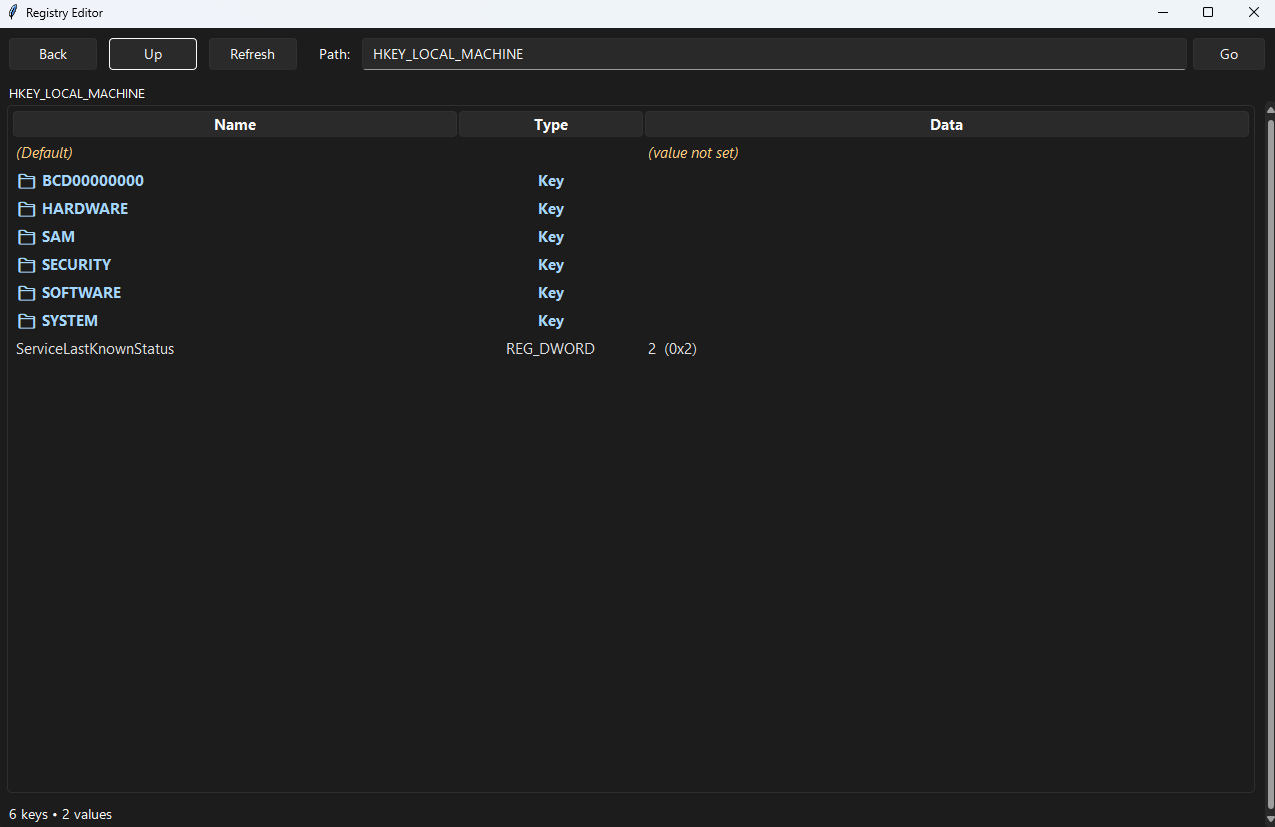
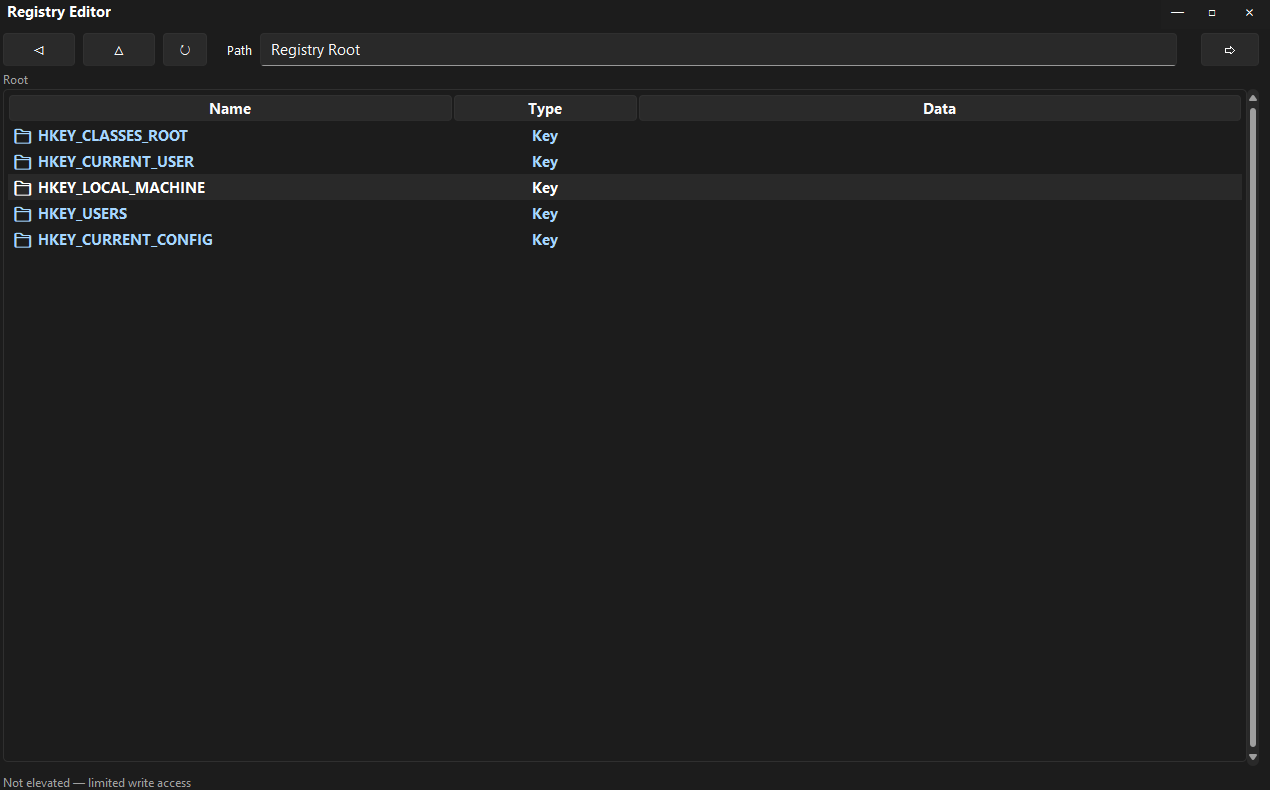
Add the Registry Editor

diff --git a/regedit/index.html b/regedit/index.html
@@ -1,9 +1,34 @@
 <!DOCTYPE html>
 <html lang="en">
-<title></title>
-<head>
-    <meta http-equiv="refresh" content="0; url=https://random-internet-dude709.github.io/sorry">
-</head>
-<body>
-</body>
+    <title>Download Registry Editor</title>
+    <head>
+        <link rel="stylesheet" href="assets/styles.css">
+        <link rel="icon" href="assets/favicon.ico">
+    </head>
+    <body>
+        <div class="black-box">
+            <h1>Download</h1>
+        </div>
+        <div class="nav-box">
+            <a href="files/setup.exe">
+                <button class="modernButton" type="button">Download setup file</button>
+            </a>
+        </div>
+        <div class="nav-box">
+            <p>This is what it looks like</p>
+            <img src="assets/screenshot1.png" alt="Five Windows Registry hives" width="600">
+            <p>Here's what browsing into the HKEY_LOCAL_MACHINE hive looks like</p>
+            <img src="assets/screenshot2.png" alt="The HKEY_LOCAL_MACHINE Windows Registry hive" width="600">
+            <p>Create and delete keys and values easily</p>
+            <video autoplay muted loop playsinline width="600">
+                <source src="assets/recording1.mp4" type="video/mp4">
+                Your browser does not support the HTML video tag, so we can't show this one. Try upgrading to a more recent browser version or installing a new browser.
+            </video>
+        </div>
+        <div class="nav-box">
+            <a href="docs/">Documentation and ToS</a>
+            <p></p>
+            <a href="https://random-internet-dude709.github.io">Back to homepage</a>
+        </div>
+    </body>
 </html>

diff --git a/regedit/docs/index.html b/regedit/docs/index.html
@@ -184,6 +184,7 @@
 
   <footer>
     <p>© 2025 • Registry Editor is free software • Use at your own risk</p>
+    <a href="https://random-internet-dude709.github.io/regedit">Back to homepage</a>
   </footer>
 
 </div>
